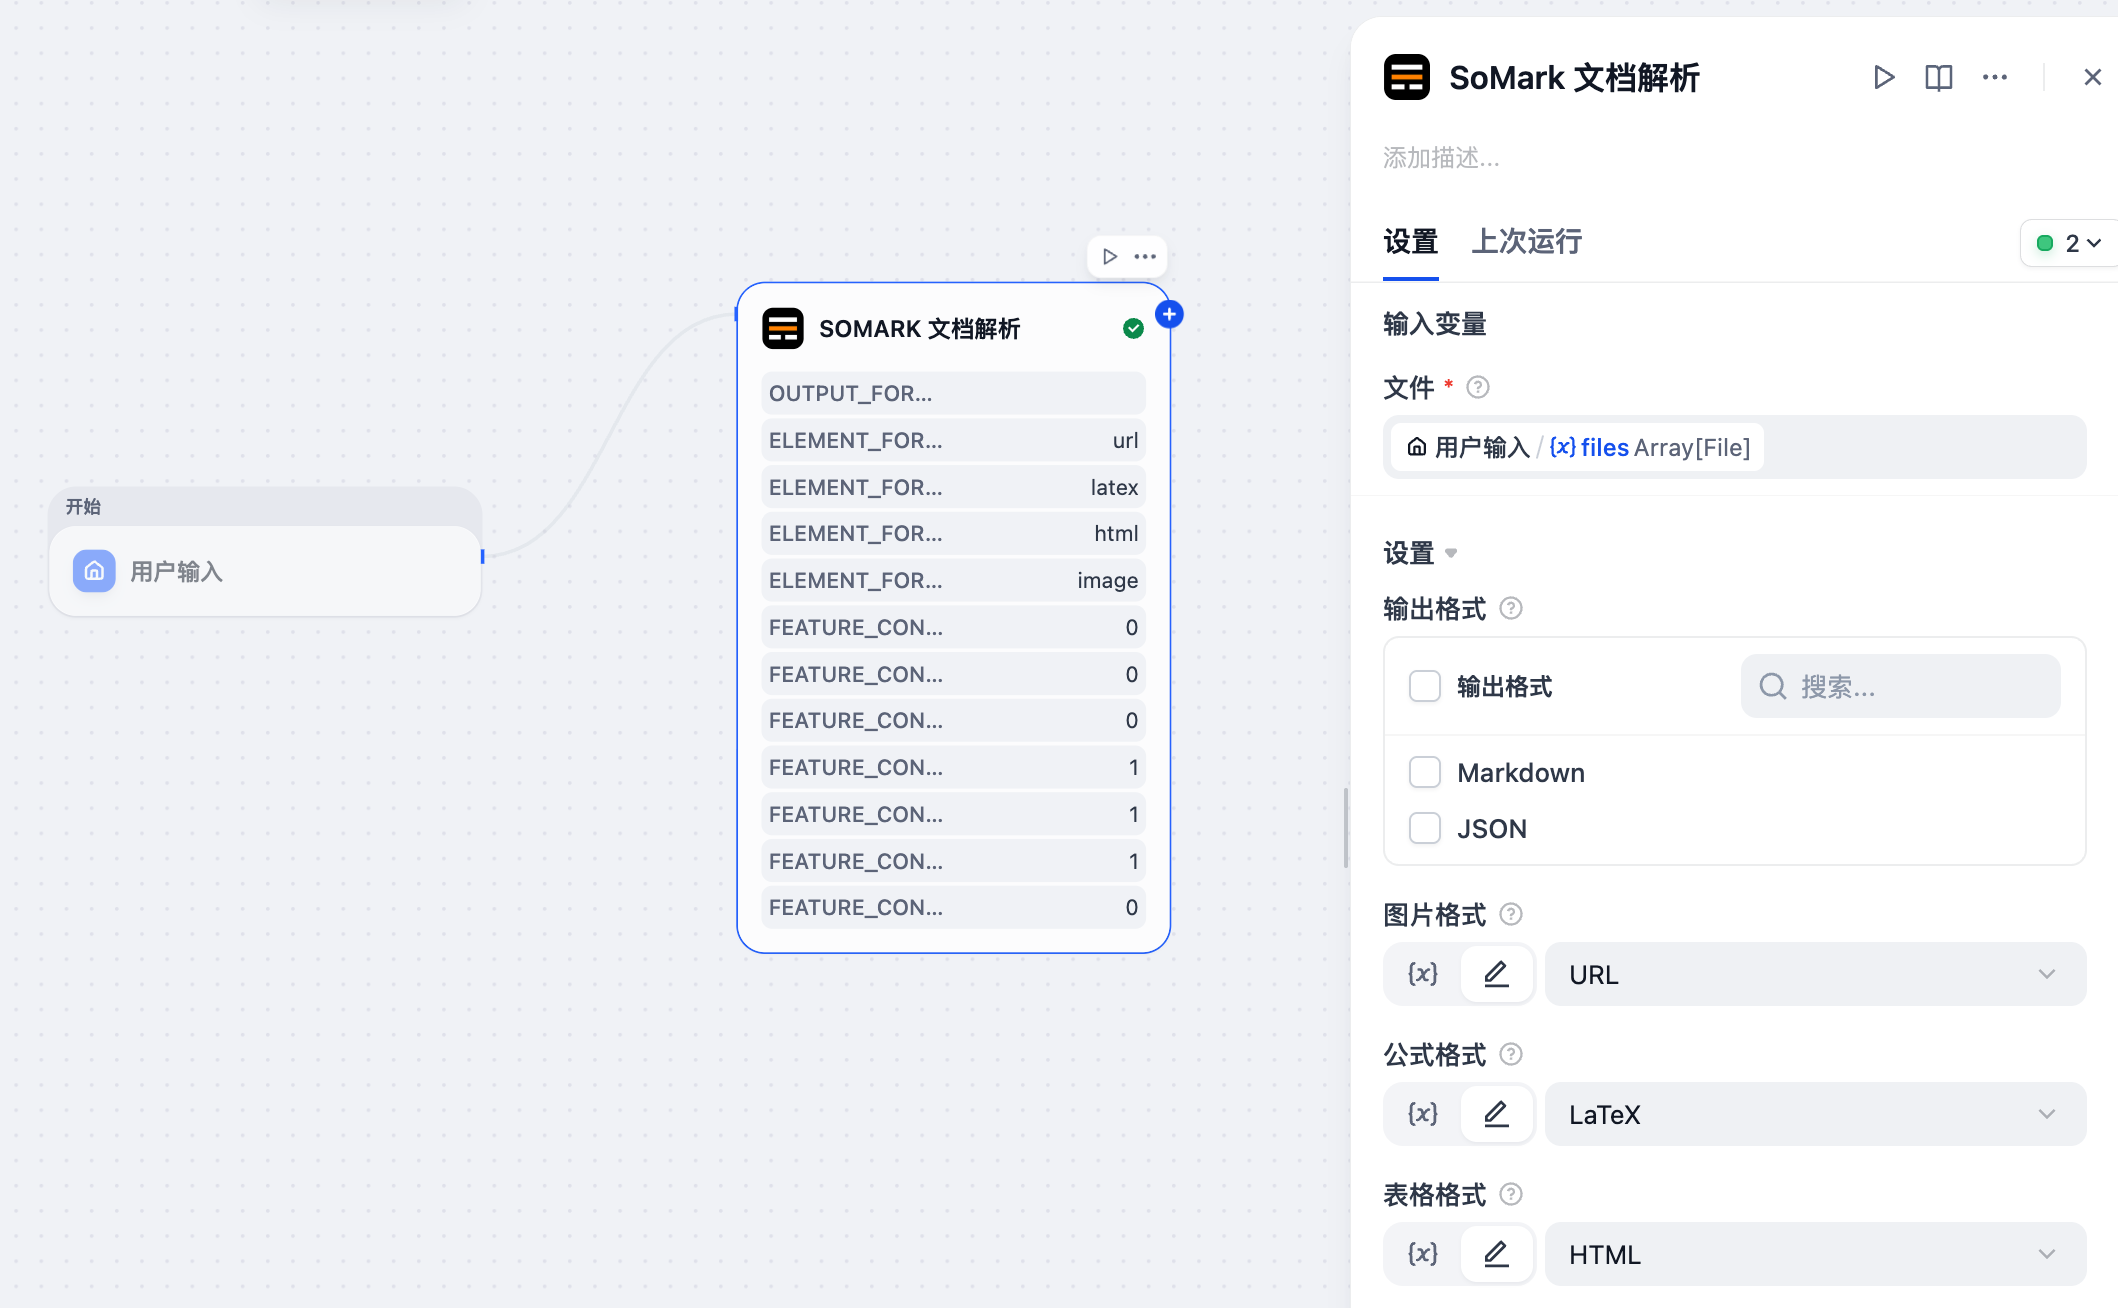
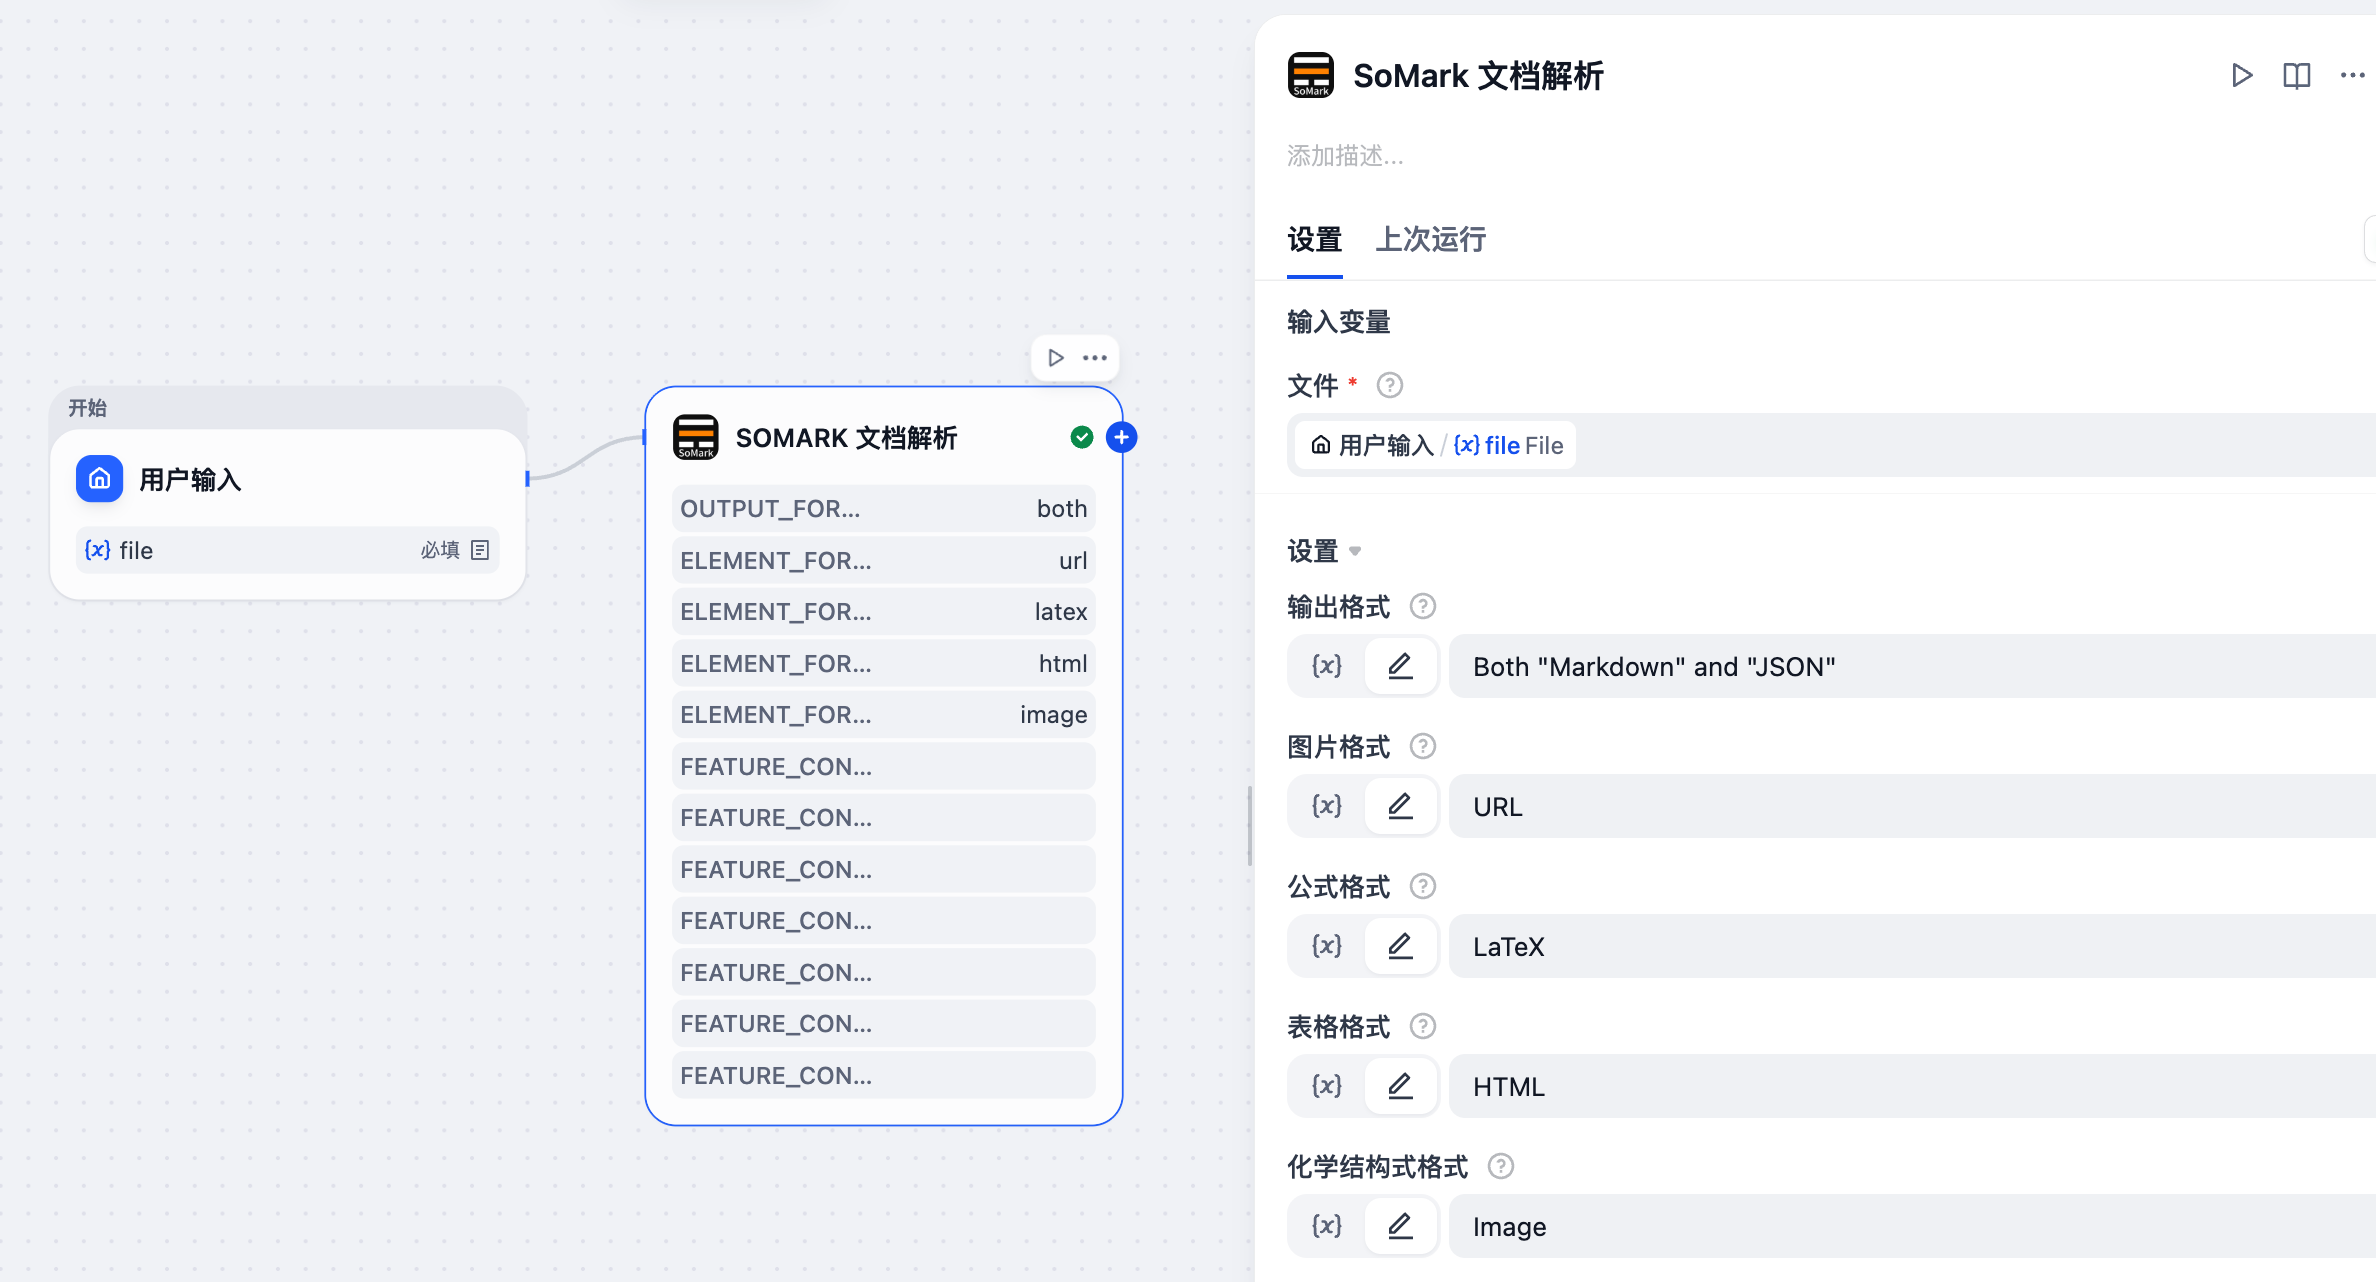
docs(somark): 更新输出格式参数说明
调整了Output Formats参数的类型描述和默认值说明，将多选改为单选，并补充了双格式选项的描述

diff --git a/tools/somark/README.md b/tools/somark/README.md
@@ -190,7 +190,7 @@ After the node executes, its output variables become available for all downstrea
 | Parameter / 参数 | Type / 类型   | Required / 必填 | Description / 描述 |
 | :--------------- | :------------ | :-------------- | :----------------- |
 | `File` (文件) | File / 文件         | Yes / 是        | Supported files: PDF, PNG, JPG, JPEG, BMP, TIFF, JP2, DIB, PPM, PGM, PBM, GIF, HEIC, HEIF, WEBP, XPM, TGA, DDS, XBM, DOC, DOCX, PPT, PPTX, XLS, XLSX. Max 200 MB / 300 pages. <br> 支持的文件：PDF、PNG、JPG、JPEG、BMP、TIFF、JP2、DIB、PPM、PGM、PBM、GIF、HEIC、HEIF、WEBP、XPM、TGA、DDS、XBM、DOC、DOCX、PPT、PPTX、XLS、XLSX。最大 200 MB / 300 页。 |
-| `Output Formats` (输出格式) | Multi-select / 多选      | No / 否         | Select one or more output formats. Supported options: `Markdown`, `JSON`. If left empty, the default outputs are `Markdown` and `JSON`. <br> 选择一个或多个输出格式。支持：`Markdown`、`JSON`。如果不选择，则默认输出 `Markdown` 和 `JSON`。 |
+| `Output Formats` (输出格式) | Single-select / 单选      | No / 否         | Select the output format. Supported options: `Markdown`, `JSON`, `Both "Markdown" and "JSON"`. Default: `Both "Markdown" and "JSON"`. <br> 选择输出格式。支持：`Markdown`、`JSON`、`Both "Markdown" and "JSON"`。默认值：`Both "Markdown" and "JSON"`。 |
 | `Image Format` (图片格式) | Single-select / 单选      | No / 否         | Image output format. Supported options: `URL`, `Base64`, `None`. Default: `URL`. <br> 图片输出格式。支持：`URL`、`Base64`、`None`。默认值：`URL`。 |
 | `Formula Format` (公式格式) | Single-select / 单选      | No / 否         | Formula output format. Supported options: `LaTeX`, `MathML`, `ASCII`. Default: `LaTeX`. <br> 公式输出格式。支持：`LaTeX`、`MathML`、`ASCII`。默认值：`LaTeX`。 |
 | `Table Format` (表格格式) | Single-select / 单选      | No / 否         | Table output format. Supported options: `HTML`, `Markdown`, `Image`. Default: `HTML`. In Markdown mode, merged cells are expanded into individual cells with duplicated content. <br> 表格输出格式。支持：`HTML`、`Markdown`、`Image`。默认值：`HTML`。在 Markdown 模式下，合并单元格会被拆分为独立单元格，并填充相同内容。 |